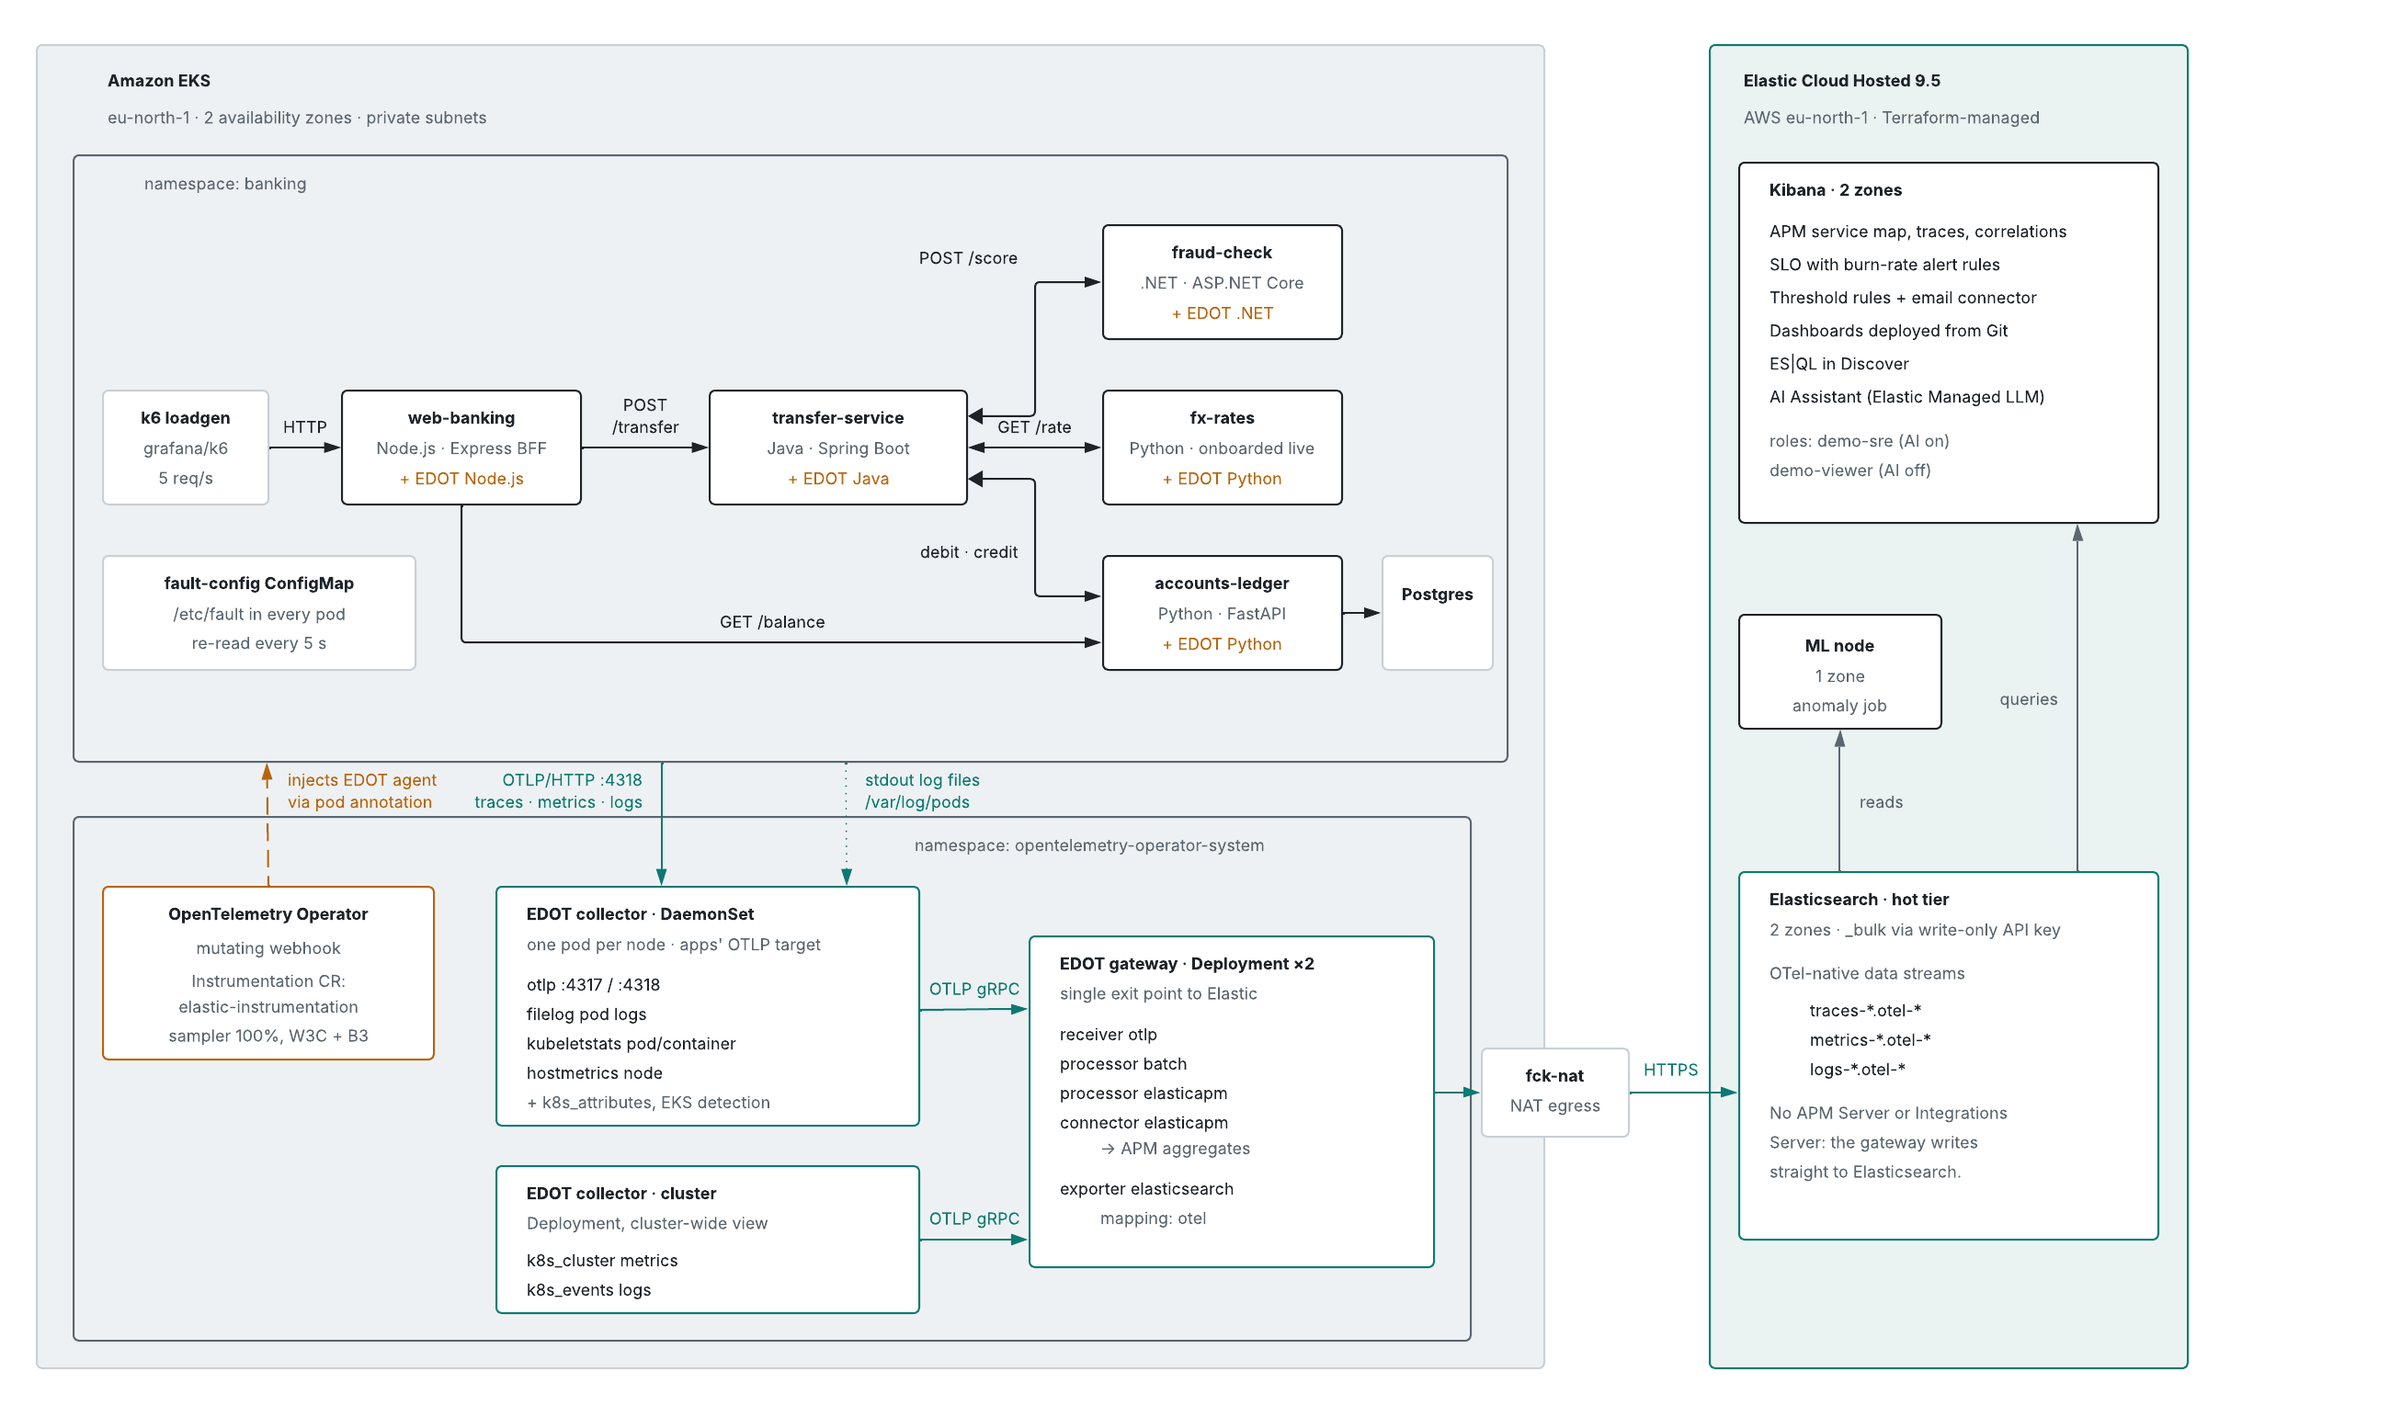
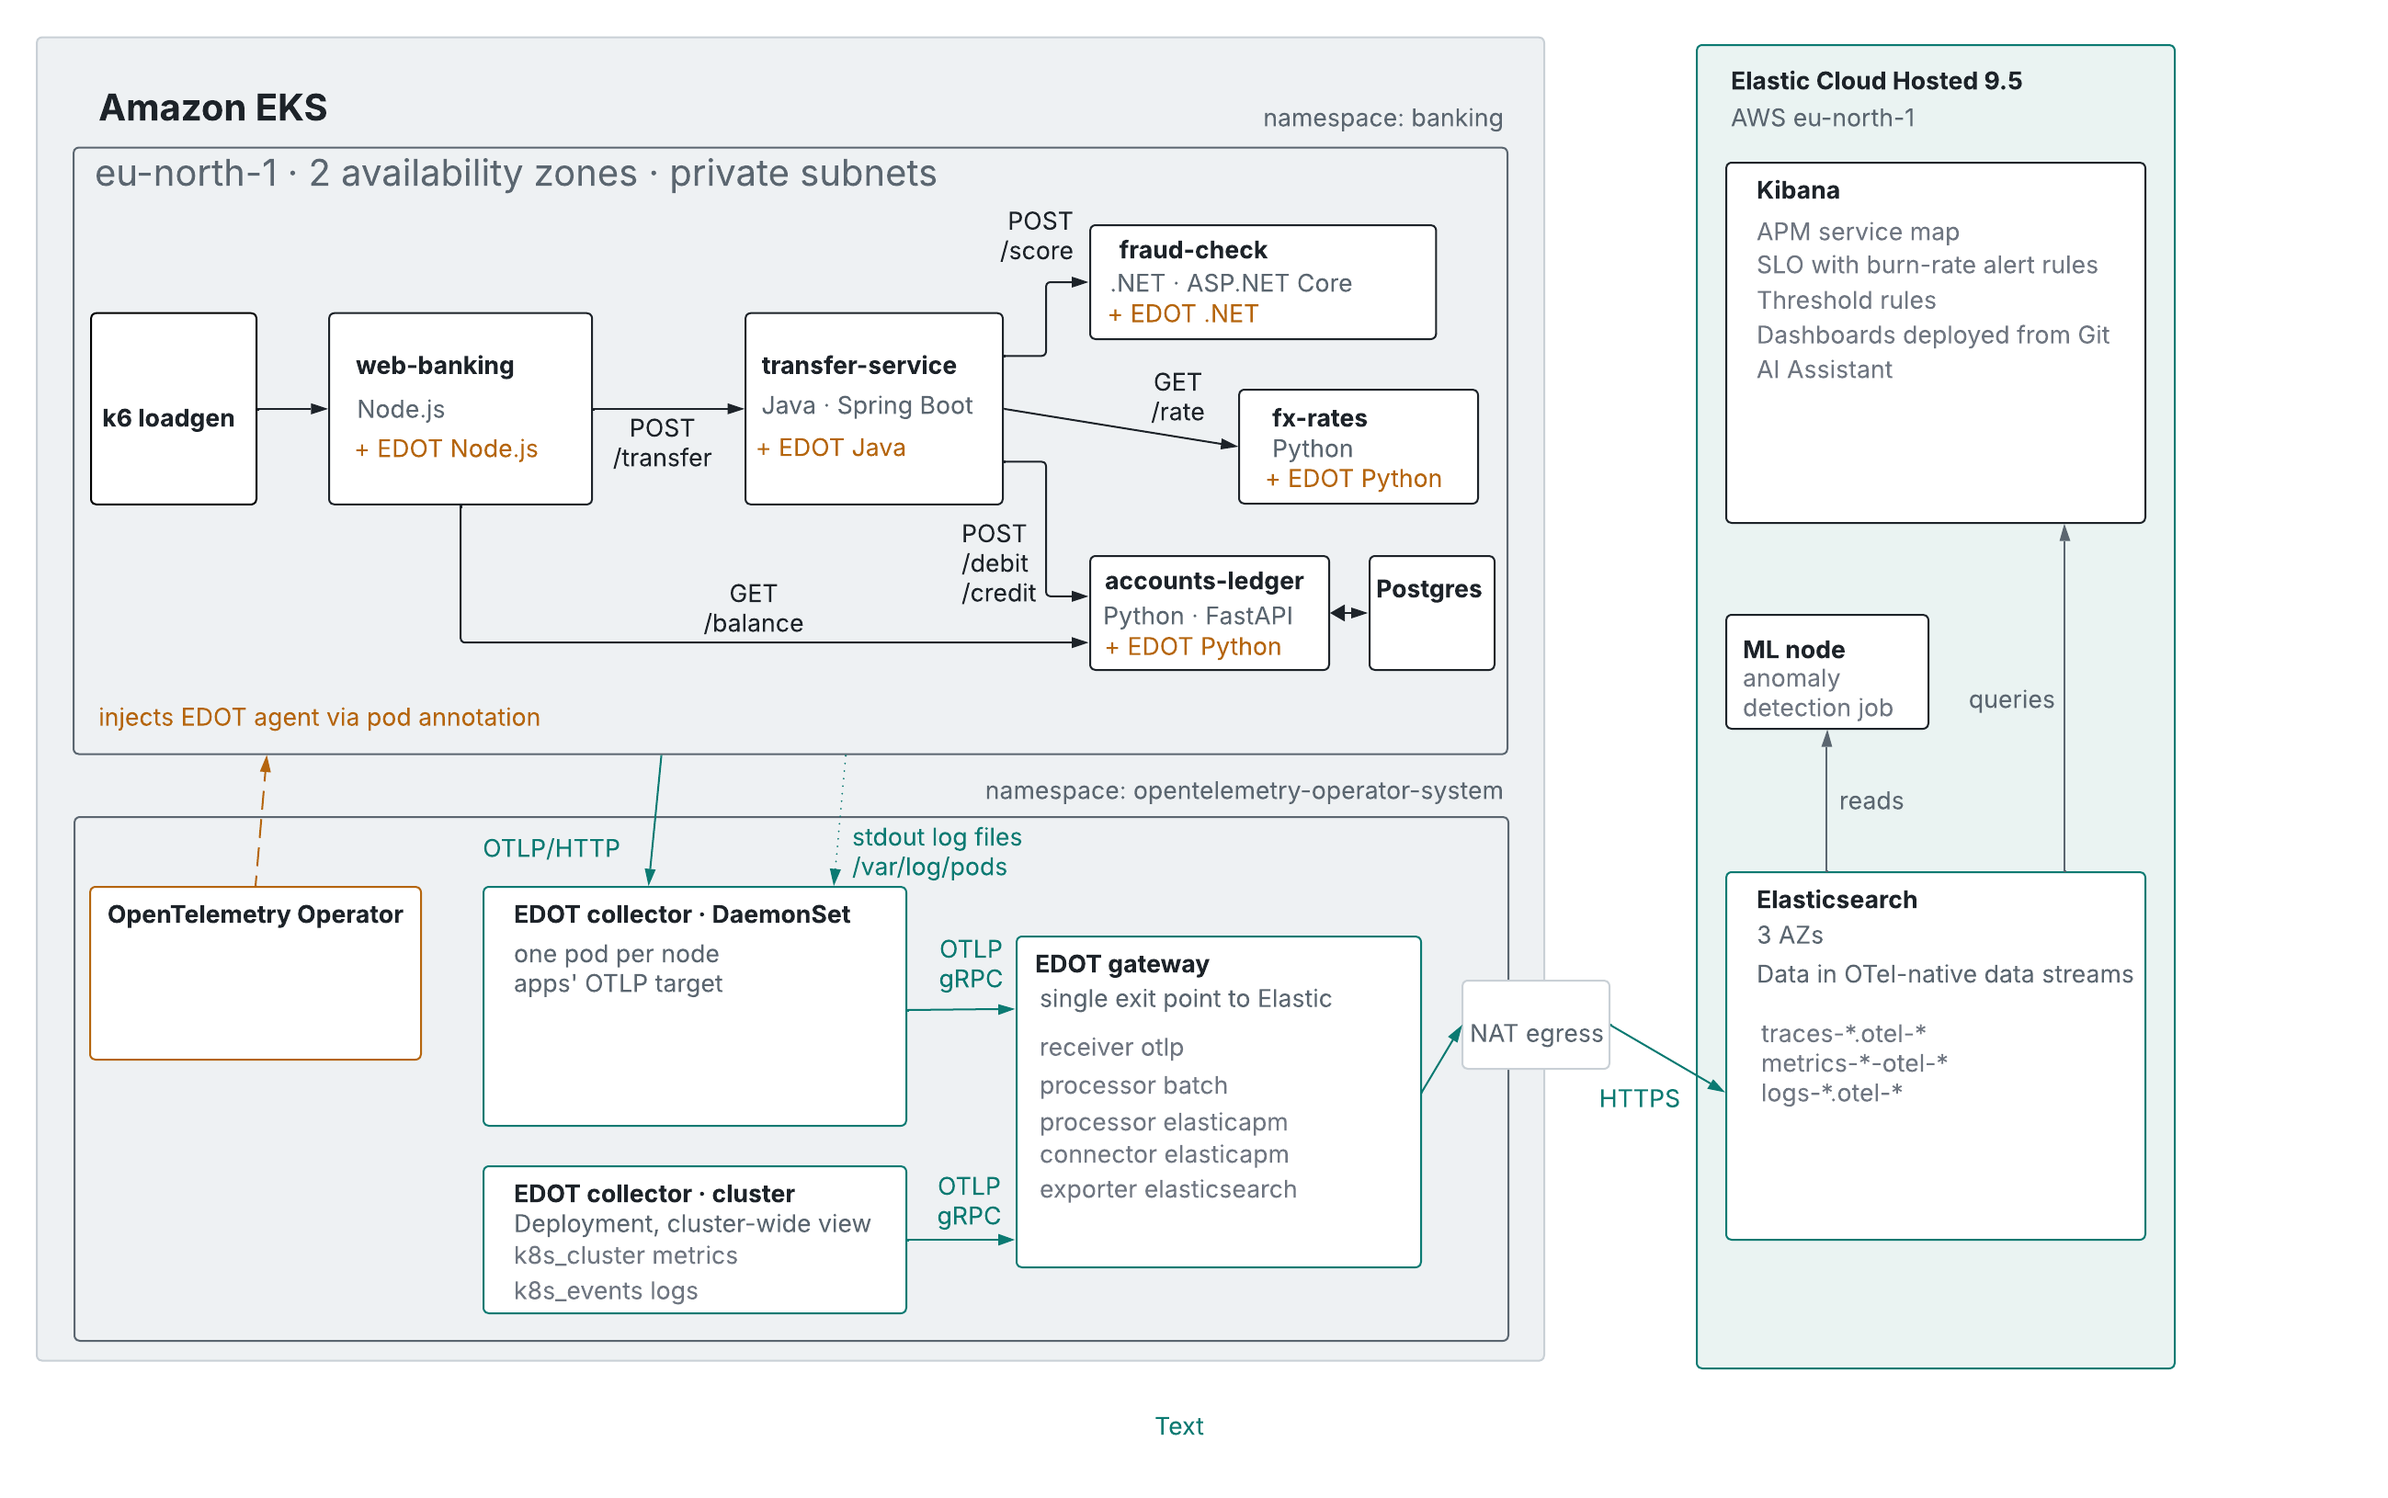
feat: add S3 snapshot repo with KMS, frozen tier and demo-logs ILM policy for logs, metrics and traces

diff --git a/README.md b/README.md
@@ -41,7 +41,7 @@ The click path and talk track for each scenario are in
                                         | OTLP -> Elasticsearch (API key)
                                         v
  +-------------------------------------------------------------------------------+
- |  Elastic Cloud Hosted 9.5 (AWS eu-north-1, 2 zones)                           |
+ |  Elastic Cloud Hosted 9.5 (AWS eu-north-1, 3 zones)                           |
  |   Elasticsearch hot tier + dedicated ML node, Kibana                          |
  |   Terraform-managed content: SLO (groupBy service.name), burn-rate and        |
  |   threshold rules, email connector, ML anomaly job, demo-sre / demo-viewer    |
